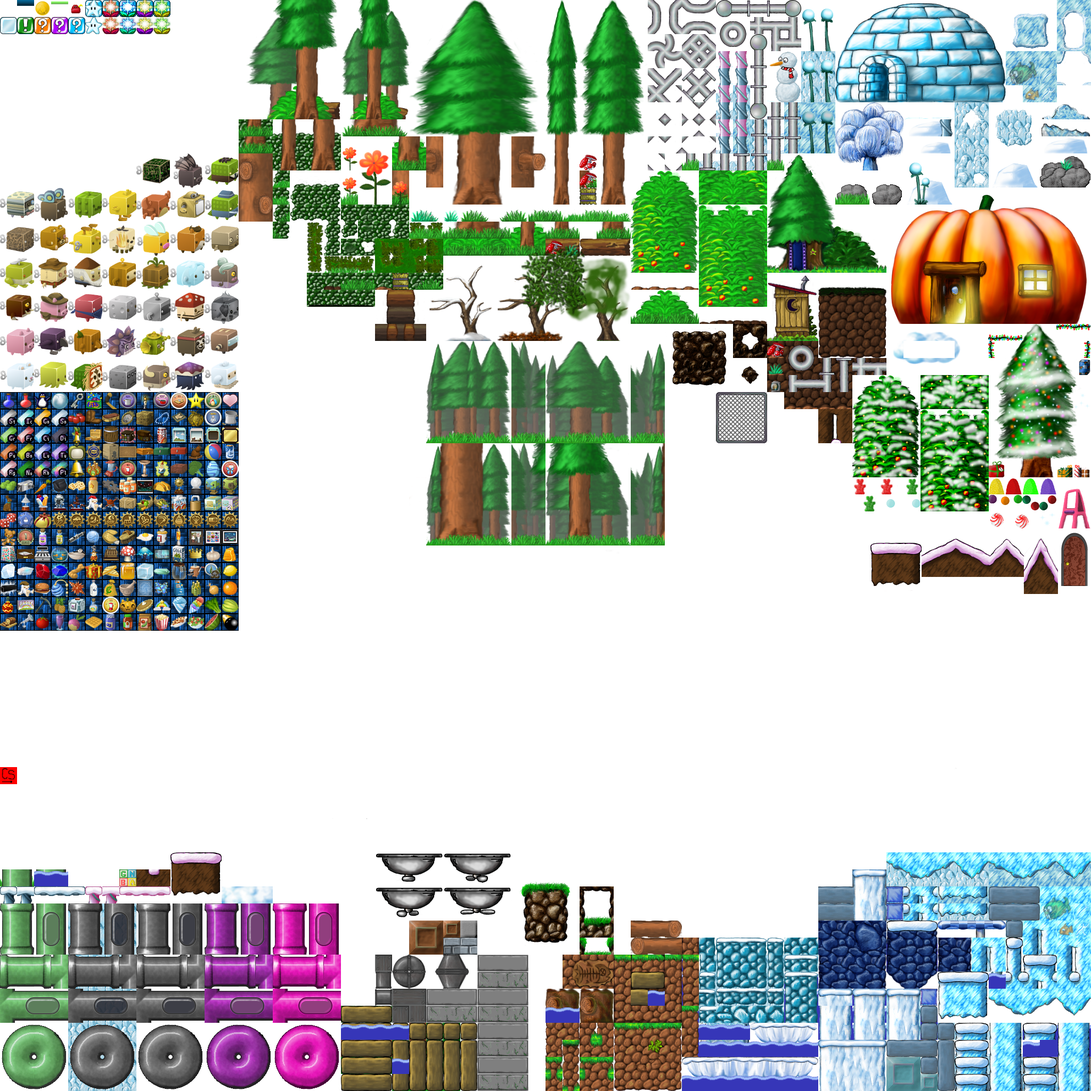
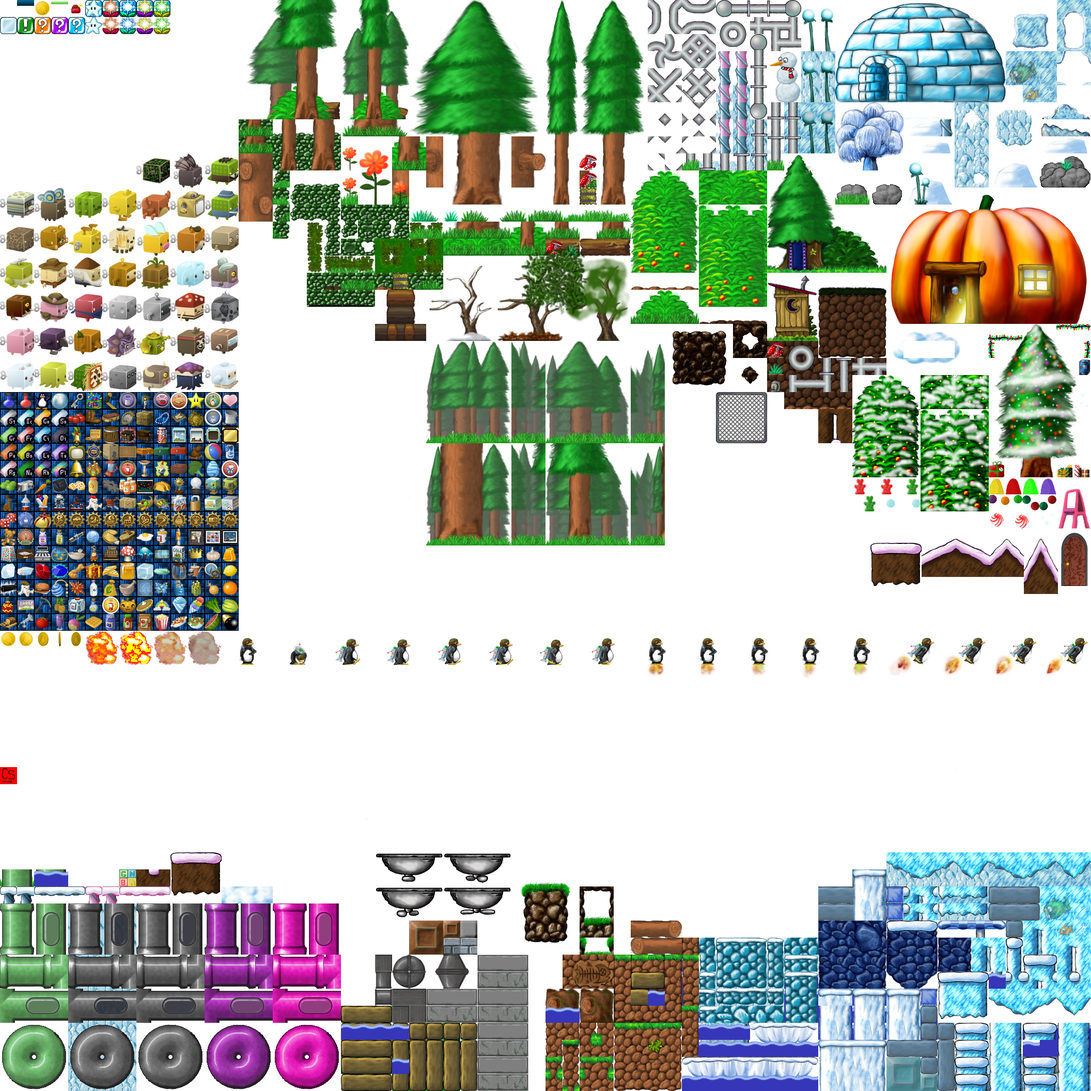
- Converted player, explosions, and coins to use the world.png atlas rather than their own sprite sheet to improve performance. - This removed the need to parent the rocketpack flames to player, further improving performance. - Still have a bug to solve where the flying animation starts several time

diff --git a/src/game.js b/src/game.js
@@ -4,7 +4,7 @@ RocketTux.Game = function(){};
  
 RocketTux.Game.prototype = {
   create: function() {
-    this.game.renderer.setTexturePriority(['world', 'entities']);
+    this.game.renderer.setTexturePriority(['world', 'atlas']);
     this.gameOver = false;
     
     var pickSong = Math.floor(Math.random() * RocketTux.songs.length)
@@ -80,29 +80,26 @@ RocketTux.Game.prototype = {
     this.createTileMap();
     
     // Add the player
-    this.player = this.game.add.sprite(32, this.game.world.height - 150, 'entities');
-    this.player.animations.add('stand', [3], 10, true);
-    this.player.animations.add('right', [6, 7, 8, 9, 10, 11], 12, true);
-    this.player.animations.add('left', [13, 14, 15, 16, 17, 18], 12, true);
-    this.player.animations.add('jump-right', [4], 10, true);
-    this.player.animations.add('jump-left', [12], 10, true);
-    this.player.animations.add('duck', [5], 10, true);
-    this.setPhysicsProperties(this.player, RocketTux.tuxGravity, 0, 20, 40, 24, 20);
+    this.player = this.game.add.sprite(32, this.game.world.height - 150, 'atlas');
+    this.player.anchor.setTo(.5,1);
+    this.player.animations.add('stand', ['tux-stand'], 1, true);
+    this.player.animations.add('duck', ['tux-duck'], 1, true);
+    this.player.animations.add('hover', Phaser.Animation.generateFrameNames('tux-hover-', 0, 5), 10, true);
+    this.player.animations.add('run', Phaser.Animation.generateFrameNames('tux-run-', 0, 6), 12, true);
+    this.player.animations.add('fly', Phaser.Animation.generateFrameNames('tux-fly-', 0, 4), 10, true);
+    this.player.animations.play('stand');
+    this.facingLeft = false;
+
+    this.setPhysicsProperties(this.player, RocketTux.tuxGravity, 0, 22, 44, 37, 20);
     this.game.camera.follow(this.player);
-    this.rocketOn = 'right';
-    
-    // Add flames for the player's rocketpack
-    this.flames = this.game.add.sprite(this.player.body.x, this.player.body.y, 'entities');
-    this.flames.animations.add('flames-right', [22,23,24,25], 12, true);
-    this.flames.animations.add('flames-left', [26,27,28,29], 12, true);
-    this.flames.animations.add('idle', [19,20,21,30,31], 8, true);
-    
+
     // Rocketpack sounds
     this.sndRocketStart = this.game.add.audio('rocketpack-start');
     this.sndRocketRunning = this.game.add.audio('rocketpack-running');
     this.sndRocketWindup = this.game.add.audio('rocketpack-windup');
     this.sndRocketBoost = this.game.add.audio('rocketpack-boost');
     this.sndRocketBoostFail = this.game.add.audio('rocketpack-boost-fail');
+    this.engineRunning = false;
     
     // Input
     this.cursors = this.game.input.keyboard.createCursorKeys();
@@ -185,63 +182,82 @@ RocketTux.Game.prototype = {
     this.game.physics.arcade.overlap(this.player, this.coins, this.collectCoin, null, this);
     this.game.physics.arcade.overlap(this.player, this.blocks, this.openBlock, null, this);
     
-    //  Reset player
-    if (!this.cursors.left.isDown || !this.cursors.right.isDown)
-        this.player.body.velocity.x = 0;
+    // Player Movement
+    if (this.cursors.right.isDown){
+        if (this.facingLeft){
+            this.player.scale.x = Math.abs(this.player.scale.x); // Face right
+            this.facingLeft = false;
+        }
         
-    if (!this.player.body.blocked.down){ // Always on when in the air
-        if (this.rocketOn == 'left'){
-            this.rocketPackIs('left');
-        } else if (this.rocketOn == 'right'){
-            this.rocketPackIs('right');
-        } else if (this.rocketOn == 'idle'){
-            this.rocketPackIs('idle');
-            this.player.play('stand');
-        }
-        this.rocketPackSoundOn(true, false);
-    } else {
-        this.rocketPackIs('off');
-        this.rocketPackSoundOn(false, false);
-    }
-    
-    //===========Player Input, Movement, and Animations============
-    // Left/Right Keys
-    if (this.cursors.left.isDown){
         if (this.player.body.blocked.down){
-            this.player.animations.play('left'); // Running
-            this.player.body.velocity.x = RocketTux.groundSpeed * -1;
-        } else if (!this.player.body.blocked.down){
-            this.rocketPackIs('left'); // Flying
-            this.player.body.velocity.x = RocketTux.airSpeed * -1;
-        }
-    } else if (this.cursors.right.isDown){
-        if (this.player.body.blocked.down){
-            this.player.animations.play('right');
+            this.player.animations.play('run');
             this.player.body.velocity.x = RocketTux.groundSpeed;
-        } else if (!this.player.body.blocked.down){
-            this.rocketPackIs('right'); // Flying
+            this.player.body.setSize(22, 44, 37, 20); // Hitbox centered
+            this.stopEngine();
+        } else {
+            this.player.animations.play('fly');
             this.player.body.velocity.x = RocketTux.airSpeed;
+            this.player.body.setSize(22, 44, 53, 20); // Hitbox shifted right 16
+            
+            if (this.cursors.up.isDown || this.cursors.down.isDown){ // Maintain altitude
+                if (this.player.body.velocity.y > 0)
+                    this.player.body.velocity.y = 0;
+            }
+            
+            if (!this.engineRunning) // Play rocket pack sounds
+                this.startEngine();
         }
-    } else {
-         this.player.play('stand'); // On ground
-         
-         if (!this.player.body.blocked.down) // In air
-            this.rocketPackIs('idle');
-    }
+    } else if (this.cursors.left.isDown){
+        if (!this.facingLeft){
+            this.player.scale.x *= -1; // Face left
+        }
         
-    // Up/Down Keys
-    if (this.cursors.up.isDown || this.cursors.down.isDown){
-        if (this.cursors.down.isDown && this.player.body.blocked.down){
-            this.player.body.velocity.x = 0;
-            this.player.animations.play('duck'); // Duck when standing
-            this.setPhysicsProperties(this.player, RocketTux.tuxGravity, 0, 20, 20, 24, 40);
-        } else if (!this.player.body.blocked.down){
-            if (this.player.body.velocity.y > 0)
-                this.player.body.velocity.y = 0; // Hover when not moving up or down in the air
+        if (this.player.body.blocked.down){
+            this.player.animations.play('run');
+            this.player.body.velocity.x = RocketTux.groundSpeed * -1;
+            this.player.body.setSize(22, 44, 37, 20); // Hitbox centered
+            this.stopEngine();
+        } else {
+            this.player.animations.play('fly');
+            this.player.body.velocity.x = RocketTux.airSpeed * -1;
+            this.player.body.setSize(22, 44, 60, 20); // Hitbox shifted left 16
+            
+            if (this.cursors.up.isDown || this.cursors.down.isDown){ // Maintain altitude
+                if (this.player.body.velocity.y > 0)
+                    this.player.body.velocity.y = 0;
+            }
+            
+            if (!this.engineRunning) // Play rocket pack sounds
+                this.startEngine();
         }
+        
+        this.facingLeft = true;
     } else {
-        this.player.body.acceleration.y = 0; // Fall
-        this.setPhysicsProperties(this.player, RocketTux.tuxGravity, 0, 20, 40, 24, 20);
+        this.player.body.velocity.x = 0;
+        this.player.scale.x = Math.abs(this.player.scale.x); // Face right
+        this.facingLeft = false;
+        this.player.body.setSize(22, 44, 37, 20); // Hitbox centered
+        
+        if (this.player.body.blocked.down){
+            if (this.cursors.down.isDown){
+                this.player.animations.play('duck');
+                this.player.body.setSize(22, 20, 37, 44); // Hitbox half height
+            } else {
+                this.player.animations.play('stand');
+            }
+            
+            this.stopEngine();
+        } else {
+            this.player.animations.play('hover');
+            
+            if (this.cursors.up.isDown || this.cursors.down.isDown){ // Maintain altitude
+                if (this.player.body.velocity.y > 0)
+                    this.player.body.velocity.y = 0;
+            }
+            
+            if (!this.engineRunning) // Play rocket pack sounds
+                this.startEngine();
+        }
     }
     
     // Ability cooldown throttled actions
@@ -324,7 +340,7 @@ RocketTux.Game.prototype = {
             return; // no boost while crouching or flying while holding down
         
         this.sndRocketWindup.play();
-        this.game.time.events.add(Phaser.Timer.SECOND * 0.5, this.rocketPackGo, this);
+        this.game.time.events.add(Phaser.Timer.SECOND * 0.5, this.doBoost, this);
         this.abilityCooldownStart(5);
     } else if (this.game.input.keyboard.downDuration(Phaser.Keyboard.CONTROL, 1)){
         // Small, single tile jump (1 second cooldown)
@@ -338,63 +354,31 @@ RocketTux.Game.prototype = {
     }
   },
 //___________________GAME LOOP END___________________________
-  rocketPackGo: function(){
-    this.doExplosion(this.player.body.x - 10, this.player.body.y + 10);
-    this.rocketPackSoundOn(true, true);
+  doBoost: function(){
+    this.doExplosion(this.player.body.x, this.player.body.y);
+    this.sndRocketBoost.play();
     this.player.body.velocity.y = RocketTux.boostSpeed * -1;
     this.boosts--;
   },
-  rocketPackSoundOn: function(on, boost){
-    if (on){
-        if (boost){
-            this.sndRocketBoost.play();
-            this.sndRocketRunning.loopFull(1.0);
-            this.sndRocketRunning.play();
-        } else {
-            if (this.sndRocketRunning.isPlaying)
-                return;
-            
-            if (!this.sndRocketStart.isPlaying)
-                this.sndRocketStart.play();
-                
-            this.sndRocketRunning.loopFull(1.0);
-            this.sndRocketRunning.play();
-        }        
-    } else {
-        this.sndRocketRunning.fadeOut(333);
-    }
-  },
-  rocketPackIs: function (stateIs){
-    if (stateIs == 'left'){
-        this.flames.x = this.player.body.x + 12;
-        this.flames.y = this.player.body.y + 7;
-        this.flames.animations.play('flames-left');
-        this.player.animations.play('jump-left');
-        this.rocketOn = 'left';
-    } else if (stateIs == 'right'){
-        // Moving right or not pressing left or right keys and falling
-        this.flames.x = this.player.body.x - 64;
-        this.flames.y = this.player.body.y + 8;
-        this.flames.animations.play('flames-right');
-        this.player.animations.play('jump-right');
-        this.rocketOn = 'right';
-    } else if (stateIs == 'idle'){
-        this.flames.x = this.player.body.x - 28;
-        this.flames.y = this.player.body.y + 37;
-        this.flames.animations.play('idle');
-        this.rocketOn = 'idle';
-    } else if (stateIs == 'off'){
-        this.flames.y = this.game.world.height + 128; // hide rocket pack exhaust off the screen
-    }
-  },
   doExplosion: function(x, y){
-    this.boostBlast = this.game.add.sprite(x, y, 'entities');
-    this.boostBlast.animations.add('blast', [32,33,32,34,35], 10, true);
+    this.boostBlast = this.game.add.sprite(x, y, 'atlas');
+    this.boostBlast.animations.add('blast', ['explosion-0', 'explosion-1', 'explosion-0', 'explosion-2', 'explosion-3'], 10, true);
+    this.boostBlast.anchor.setTo(0.4,0);
     this.boostBlast.animations.play('blast');
     this.game.time.events.add(Phaser.Timer.SECOND * 0.5, this.douseFlames, this);
   },
   douseFlames: function(){
     this.boostBlast.destroy();
+  },
+  startEngine: function(){
+    this.sndRocketStart.play();
+    this.sndRocketRunning.loopFull(1.0);
+    this.sndRocketRunning.play();
+    this.engineRunning = true;
+  },
+  stopEngine: function(){
+    this.sndRocketRunning.fadeOut(333);
+    this.engineRunning = false;
   },
   doParticleExplosion: function(dur, num, fn, onPlayer, x, y, size){
     // Add special effect
@@ -570,8 +554,8 @@ RocketTux.Game.prototype = {
                     }
                     
                     if (doCoin){
-                        coin = this.coins.create(posX, posY, 'entities');
-                        coin.animations.add('spin', [36,37,38,39,40], 10, true);
+                        coin = this.coins.create(posX, posY, 'atlas');
+                        coin.animations.add('spin', Phaser.Animation.generateFrameNames('coin-', 0, 5), 10, true);
                         coin.animations.play('spin');
                         this.setPhysicsProperties(coin, 0, 0, 32, 32, 0, 0);
                         this.coinsInLevel++;
@@ -772,7 +756,7 @@ RocketTux.Game.prototype = {
   quit: function(){
     this.gameOver = true; // Prevent crash caused by running game loop after destroying the following objects
     this.player.destroy();
-    this.flames.destroy();
+    //this.flames.destroy();
     this.theLevel.destroy();
     this.sndRocketStart.destroy();
     this.sndRocketRunning.destroy();

diff --git a/src/preload.js b/src/preload.js
@@ -18,7 +18,6 @@ RocketTux.Preload.prototype = {
   	// Load game assets
     this.load.image('world', 'data/world.png'); // For tilemap
     this.game.load.atlas('atlas', 'data/world.png', 'data/world.json');  // For all other elements
-    this.load.spritesheet('entities', 'data/entities.png', 64, 64);
     this.load.spritesheet('skies', 'data/skies.png', 1024, 1024);
     this.load.spritesheet('skies-special', 'data/skies-special.png', 1024, 1024);
     this.load.audio('collect', 'data/sounds/collect.ogg');
